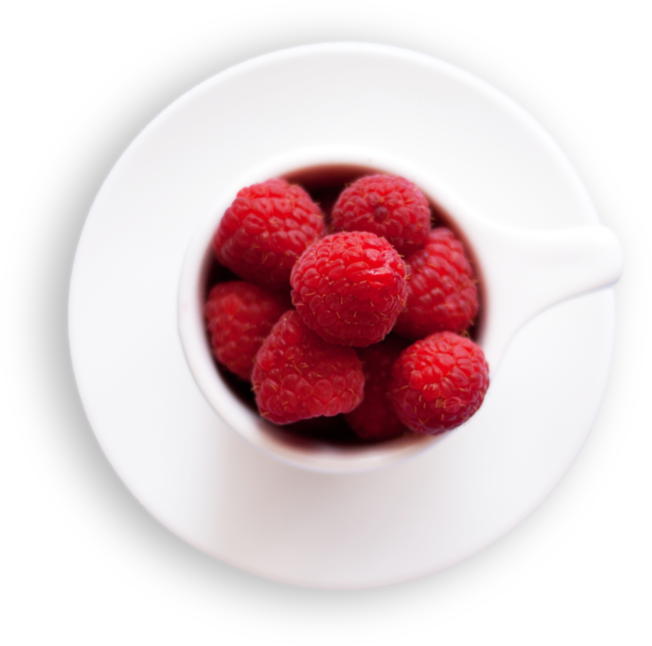
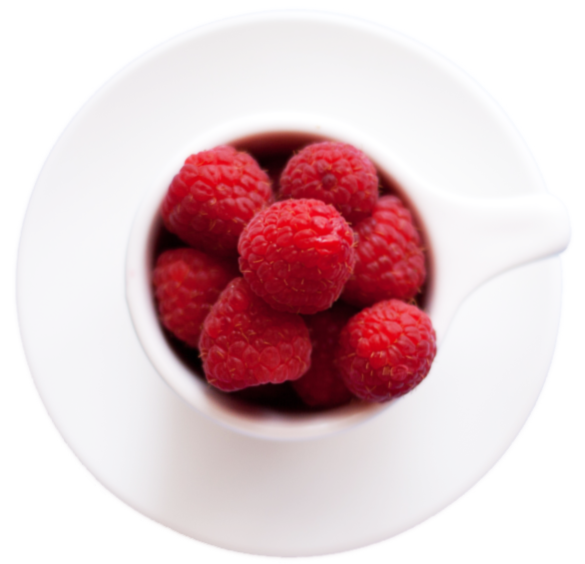
Трохи переробила секцію about

diff --git a/css/about.css b/css/about.css
@@ -1,5 +1,6 @@
 .section__about {
-    background-image: radial-gradient(circle at center, #00c3c3 0%, #00b8b7 32%, #00afae 68%, #00a09f 100%);
+    /*background-image: radial-gradient(circle at center, #00c3c3 0%, #00b8b7 32%, #00afae 68%, #00a09f 100%);*/
+    background-color: #00b0b0;
 }
 
 .about__content {
@@ -7,9 +8,11 @@
     justify-content: center;
 }
 
-.about__left {
+.about__left-block {
     padding: 72px 100px 74px 0; 
-
+}
+.about__left-block img {
+    filter: drop-shadow(-18.794px 6.84px 25px rgba(0,0,0,0.3));
 }
 
 .about__descr {

diff --git a/index.html b/index.html
@@ -67,7 +67,7 @@
 
         <section class="section section__about" id="about">
           <div class="about__content content-container">
-            <div class="about__left">
+            <div class="about__left-block">
               <img src="./assets/img/about-img.png" alt="">
             </div>
 
